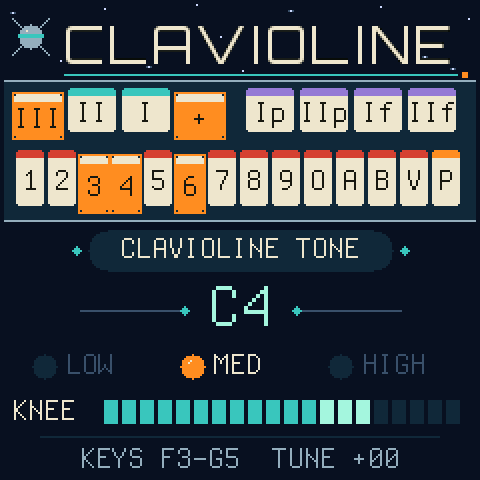
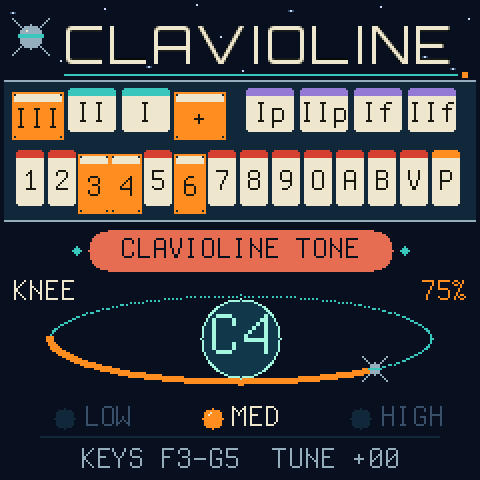
Screen: the note in orbit, the knee lever as an arc and a satellite; coral preset capsule

diff --git a/firmware/src/clavioline.c b/firmware/src/clavioline.c
@@ -435,7 +435,7 @@ static void apply_preset(uint32_t i)
     edited = 0;
 }
 
-/* ---- the screen: 1950s space age (deep-space navy, ivory tablets, a satellite, teal and orange lamps) ------ */
+/* ---- the screen: 1950s space age (deep-space navy, ivory tablets, a satellite; the note in orbit) ---------- */
 #include "title_font.h"                         /* FONT_T, for the titles: rendered from Orbitron (assets/fonts) */
 #define C_NAVY RGB(8, 16, 38)
 #define C_PANEL RGB(18, 40, 62)
@@ -450,6 +450,8 @@ static void apply_preset(uint32_t i)
 #define C_VIOLET RGB(150, 120, 210)
 #define C_STAR RGB(206, 216, 255)
 #define C_AMBER C_ORANGE
+#define C_CORAL RGB(231, 111, 81)
+#define C_PLANET RGB(23, 58, 74)
 
 static void cv_disc(int32_t cx, int32_t cy, int32_t r, uint16_t c)   /* a filled circle */
 {
@@ -534,35 +536,62 @@ static void draw_preset(void)                   /* the preset in a capsule */
     s[i] = 0;
     w = text_w(&FONT_S, s) + 12;
     cv_begin(240, 26, C_NAVY);
-    cv_disc(120 - w / 2, 13, 10, C_PANEL);
-    cv_disc(120 + w / 2, 13, 10, C_PANEL);
-    cv_rect(120 - w / 2, 3, w, 21, C_PANEL);
+    cv_disc(120 - w / 2, 13, 10, C_CORAL);
+    cv_disc(120 + w / 2, 13, 10, C_CORAL);
+    cv_rect(120 - w / 2, 3, w, 21, C_CORAL);
     cv_disc(120 - w / 2 - 16, 13, 2, C_TEAL);
     cv_disc(120 + w / 2 + 16, 13, 2, C_TEAL);
-    cv_text(120 - (w - 12) / 2, 5, &FONT_S, s, C_IVORY);
+    cv_text(120 - (w - 12) / 2, 5, &FONT_S, s, C_NAVY);
     cv_blit(0, 112);
 }
 
-static void draw_note(void)                     /* the note, between two orbit marks */
+static void draw_orbit(uint32_t stops)         /* the note as a planet; the knee lever as an arc and a satellite */
 {
     static const char *const NAME[12] = {"C", "C#", "D", "D#", "E", "F", "F#", "G", "G#", "A", "A#", "B"};
-    char s[8] = "-";
-    int32_t w;
+    const int32_t cx = 120, cy = 31, rx = 96, ry = 22;
+    char s[8] = "-", v[6], *q = v;
+    uint32_t k, lev = lever > LEVER_MAX ? LEVER_MAX : lever, pc = (lev * 100u + LEVER_MAX / 2u) / LEVER_MAX;
+    int32_t w, c, sn;
     if (top >= 0) {
         int32_t p = top + 12 * set.coupler, i = 0;
-        const char *q;
+        const char *n;
         if (p < 0) p = 0;
-        for (q = NAME[p % 12]; *q; ) s[i++] = *q++;
+        for (n = NAME[p % 12]; *n; ) s[i++] = *n++;
         if (p >= 12) s[i++] = (char)('0' + p / 12 - 1);
         s[i] = 0;
     }
+    cv_begin(240, 62, C_NAVY);
+    for (k = 0; k < 256u; k++) {                /* the orbit */
+        c = sine((k << 24) + (1u << 30)); sn = sine(k << 24);
+        cv_pset(cx + (c * rx) / 32767, cy + (sn * ry) / 32767, stops ? C_FAINT : C_TEAL);
+    }
+    cv_disc(cx, cy, 20, stops ? C_PANEL : C_MINT);   /* the planet, rimmed */
+    cv_disc(cx, cy, 19, stops ? C_PANEL : C_PLANET);
+    if (!stops) {                               /* the knee lever: from the left, round the front, to the right */
+        for (k = 0; k <= lev * 2u; k++) {
+            uint32_t ph = (uint32_t)(0x80000000u - k * (0x80000000u / (LEVER_MAX * 2u)));
+            c = sine(ph + (1u << 30)); sn = sine(ph);
+            cv_rect(cx + (c * rx) / 32767 - 1, cy + (sn * ry) / 32767 - 1, 3, 3, C_ORANGE);
+        }
+    }
+    if (!stops) {                               /* the satellite, at the end of the arc */
+        uint32_t ph = 0x80000000u - lev * (0x80000000u / LEVER_MAX);
+        int32_t px, py;
+        c = sine(ph + (1u << 30)); sn = sine(ph);
+        px = cx + (c * rx) / 32767; py = cy + (sn * ry) / 32767;
+        cv_line(px - 6, py - 6, px + 6, py + 6, C_CHROME);
+        cv_line(px - 6, py + 6, px + 6, py - 6, C_CHROME);
+        cv_disc(px, py, 3, C_CHROME);
+        cv_rect(px - 3, py, 7, 1, C_TEAL);
+    }
     w = text_w(&FONT_L, s);
-    cv_begin(240, 34, C_NAVY);
-    cv_line(40, 17, 120 - w / 2 - 12, 17, C_FAINT);
-    cv_line(120 + w / 2 + 12, 17, 200, 17, C_FAINT);
-    cv_disc(120 - w / 2 - 12, 17, 2, C_TEAL);
-    cv_disc(120 + w / 2 + 12, 17, 2, C_TEAL);
-    cv_text(120 - w / 2, 1, &FONT_L, s, C_MINT);
+    cv_text(cx - w / 2, cy - 16, &FONT_L, s, stops ? C_FAINT : C_MINT);
+    cv_text(6, 0, &FONT_S, "KNEE", stops ? C_FAINT : C_IVORY);
+    if (pc >= 100u) *q++ = '1';
+    if (pc >= 10u) *q++ = (char)('0' + pc / 10u % 10u);
+    *q++ = (char)('0' + pc % 10u);
+    *q++ = '%'; *q = 0;
+    cv_text(234 - text_w(&FONT_S, v), 0, &FONT_S, v, stops ? C_FAINT : C_ORANGE);
     cv_blit(0, 138);
 }
 
@@ -570,27 +599,14 @@ static void draw_coupler(void)                  /* three lamps */
 {
     static const char *const W[3] = {"LOW", "MED", "HIGH"};
     uint32_t i;
-    cv_begin(240, 22, C_NAVY);
+    cv_begin(240, 18, C_NAVY);
     for (i = 0; i < 3u; i++) {
-        int32_t x = 22 + (int32_t)i * 74, on = (int32_t)i - 1 == set.coupler;
-        cv_disc(x, 11, 6, on ? C_ORANGE : C_PANEL);
-        if (on) { cv_pset(x - 2, 9, C_IVORY); cv_pset(x - 1, 8, C_IVORY); }
-        cv_text(x + 11, 3, &FONT_S, W[i], on ? C_IVORY : C_FAINT);
+        int32_t x = 32 + (int32_t)i * 74, on = (int32_t)i - 1 == set.coupler;
+        cv_disc(x, 9, 5, on ? C_ORANGE : C_PANEL);
+        if (on) { cv_pset(x - 2, 7, C_IVORY); cv_pset(x - 1, 6, C_IVORY); }
+        cv_text(x + 10, 1, &FONT_S, W[i], on ? C_IVORY : C_FAINT);
     }
-    cv_blit(0, 172);
-}
-
-static void draw_lever(void)                    /* the knee lever: a row of lamps, teal, mint, orange */
-{
-    int32_t i, lit = (int32_t)((lever * 20u + LEVER_MAX - 1u) / LEVER_MAX);
-    cv_begin(240, 24, C_NAVY);
-    cv_text(6, 4, &FONT_S, "KNEE", C_IVORY);
-    for (i = 0; i < 20; i++) {
-        uint16_t c = C_PANEL;
-        if (i < lit) c = i < 12 ? C_TEAL : i < 16 ? C_MINT : C_ORANGE;   /* like a period level meter */
-        cv_rect(52 + i * 9, 6, 7, 12, c);
-    }
-    cv_blit(0, 194);
+    cv_blit(0, 200);
 }
 
 static void draw_status(const char *msg, uint16_t colour)
@@ -879,15 +895,16 @@ static void app_main(void)
                         | (uint32_t)set.glide << 12;
             if (st != drawn_opt) { drawn_opt = st; draw_options(osel); }
         } else {
-        if (stops != drawn_stops) { drawn_stops = stops; draw_title(stops); drawn_st = ~0u; }
+        if (stops != drawn_stops) { drawn_stops = stops; draw_title(stops); drawn_st = drawn_note = ~0u; }
         if (set.tabs != drawn_tabs) { drawn_tabs = set.tabs; draw_rail(); }
         if ((set.preset | edited << 15) != drawn_pre) { drawn_pre = set.preset | edited << 15; draw_preset(); }
         if (((uint32_t)(top + 1) | (uint32_t)(set.coupler + 1) << 8) != drawn_note) {
             drawn_note = (uint32_t)(top + 1) | (uint32_t)(set.coupler + 1) << 8;
-            draw_note();
+            drawn_lever = lever;
+            draw_orbit(stops);
         }
         if ((uint32_t)(set.coupler + 1) != drawn_cpl) { drawn_cpl = (uint32_t)(set.coupler + 1); draw_coupler(); }
-        if (lever != drawn_lever) { drawn_lever = lever; draw_lever(); }
+        if (lever != drawn_lever) { drawn_lever = lever; draw_orbit(stops); }
         if (msg && drawn_st != 0xFFFFFFFEu) { drawn_st = 0xFFFFFFFEu; draw_status(msg, C_AMBER); }
         else if (!msg && (stops || cpu_over)) {
             if (drawn_st != 0xFFFFFFFDu) { drawn_st = 0xFFFFFFFDu; draw_status(cpu_txt, cpu_over ? C_AMBER : C_CHROME); }

diff --git a/README.md b/README.md
@@ -32,7 +32,7 @@ silence starts the same way.
 |---|---|---|
 | Keys | Play | The 36-key keyboard, F to E |
 | GLO | STOPS mode: all the tablets, including vibrato, P and the sub-octaves | The tablet rail |
-| **PRESETS** knob | **Knee lever**: the expression swell. Turn quickly for big moves, slowly for small ones. Fully left is silent. MIDI CC 11 moves it too | The lever under the keyboard, pushed with the knee |
+| **PRESETS** knob | **Knee lever**: the expression swell, shown as the orange arc and the satellite on the orbit around the note. Turn quickly for big moves, slowly for small ones. Fully left is silent. MIDI CC 11 moves it too | The lever under the keyboard, pushed with the knee |
 | MASTER | Volume | The amplifier |
 | OCT− / OCT+ | Octave coupler: LOW / MED / HIGH | The transposing slider |
 | ALGORITHM | Shift the FM-1's 27 keys up an octave to reach the top of the 36-key range (back to F3–G5 at power-on) | |
